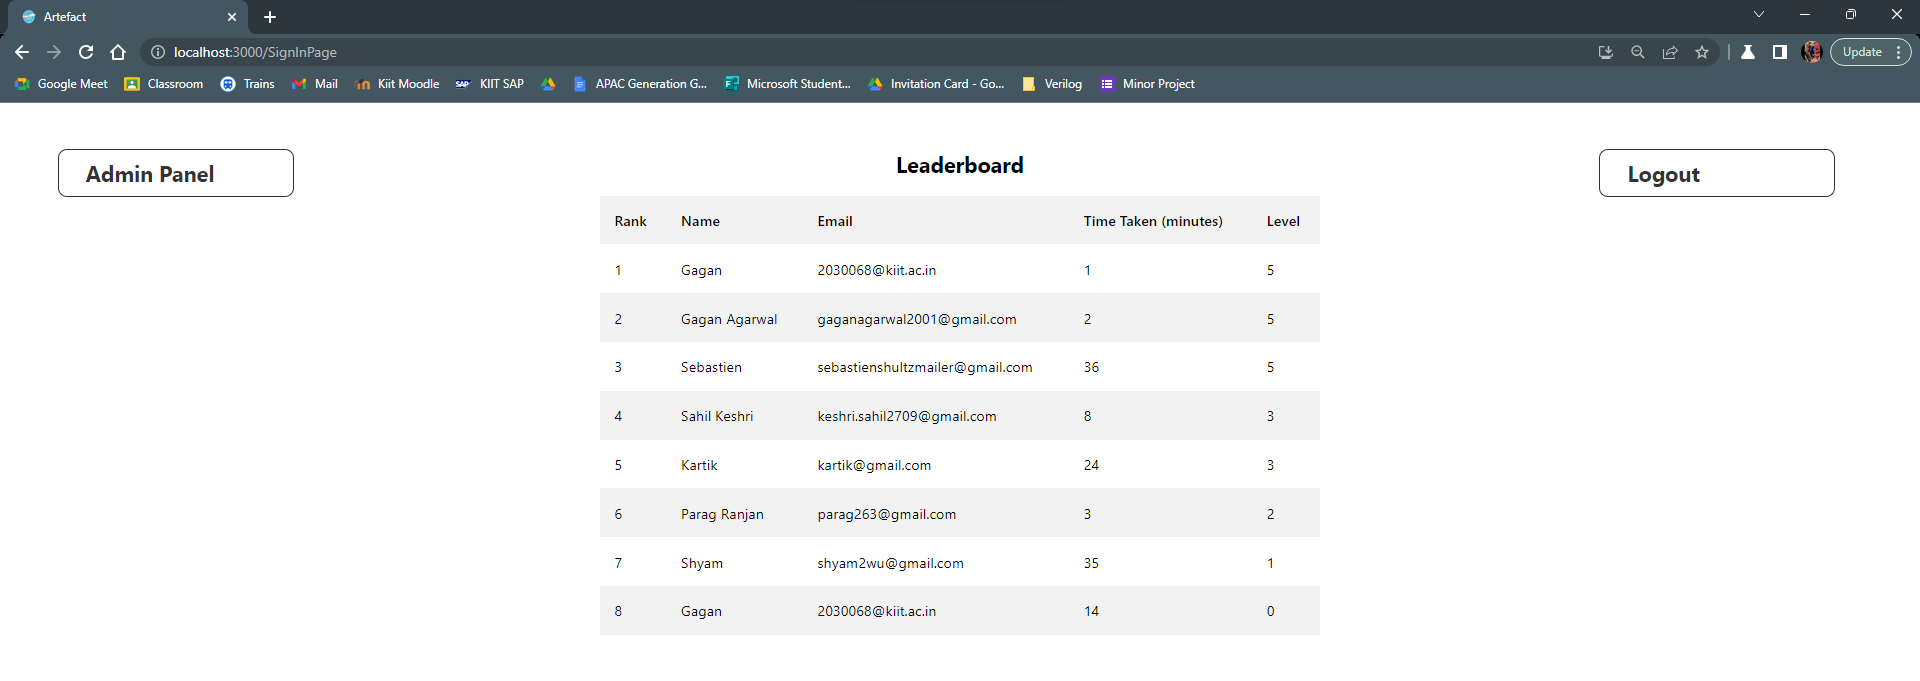
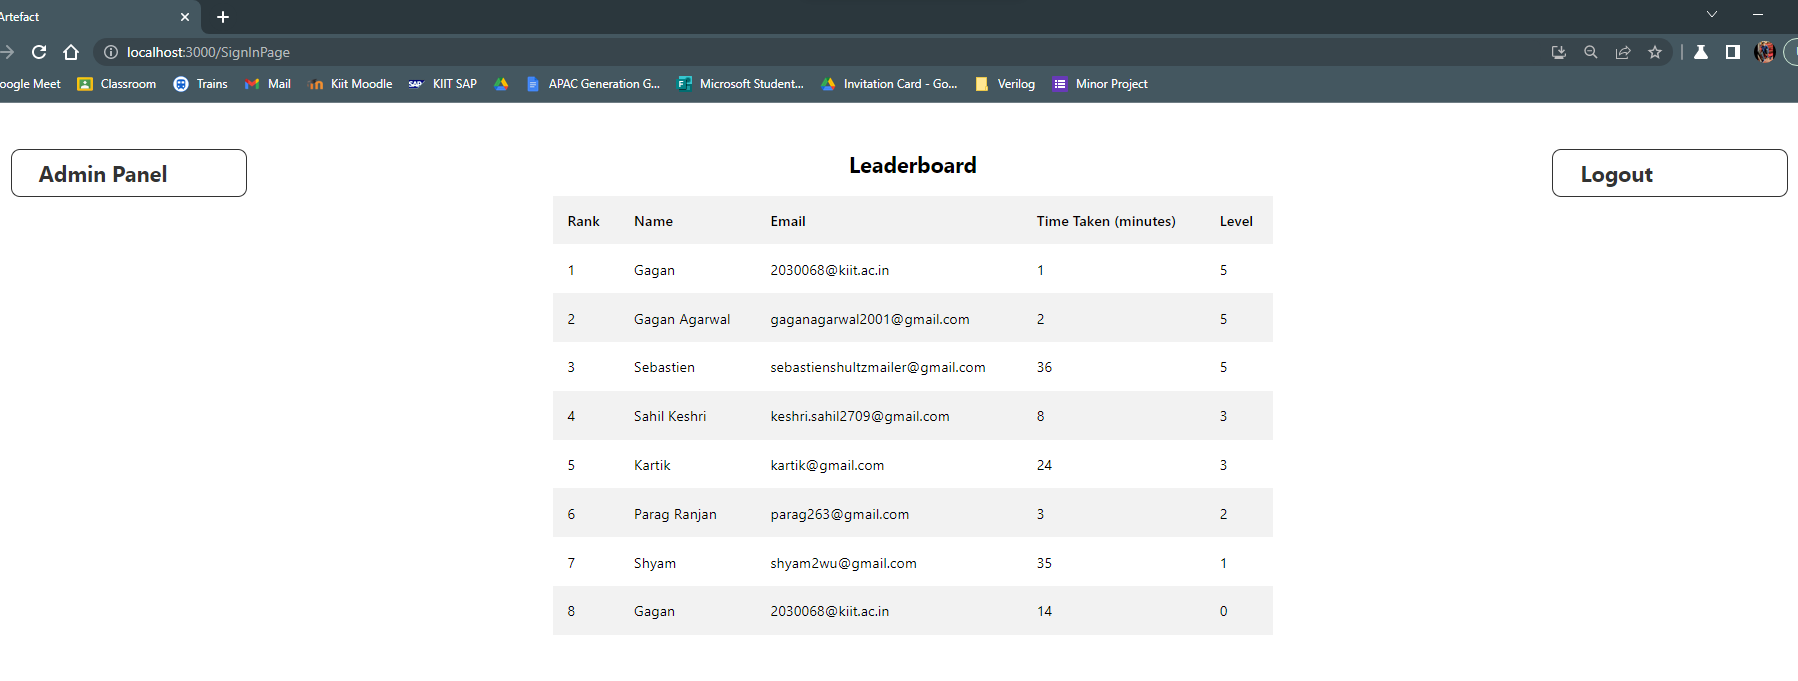
updated admin panel and improved analytics

diff --git a/src/pages/Scoreboard.jsx b/src/pages/Scoreboard.jsx
@@ -2,9 +2,10 @@ import React, { useState, useEffect } from "react";
 import { useFirebase,auth } from "../context/firebase";
 import Chart from 'chart.js/auto';
 import "../styles/Leaderboard.css"
+import "../styles/Scoreboard.css"
 import { signOut } from "firebase/auth";
 
-const Leaderboard = ({ user }) => {
+const ScoreCard = ({ user }) => {
   const [winners, setwinners] = useState([]);
   const firebase = useFirebase();
 
@@ -155,26 +156,23 @@ const Leaderboard = ({ user }) => {
 
   return (
     <div className="leaderboard-container">
-        <div className="admin-text">
-          Admin Panel
-        </div>
       <h2>Leaderboard</h2>
-        <div className="chart-container">
-    <div className="bar-chart-container">
-      <h2 class="chart-title"><u>Score</u></h2>
+      <div className="chart-container-user">
+    <div className="bar-chart-container-user">
+      <h2 class="chart-title">Score</h2>
       <canvas id="leaderboard-chart"></canvas>
     </div>
-    <div className="pie-chart-container">
-      <h2 class="chart-title"><u>No. of Users by thier current Level</u></h2>
-      <canvas id="level-chart"></canvas>
-    </div>
+    <div className="admin-text-user">
+    <div className="admin-links">
+            <a href = "/" >Go Back</a>
+        </div>
+        </div>
   </div>
       <table className="leaderboard-table">
         <thead>
           <tr>
             <th>Rank</th>
             <th>Name</th>
-            <th>Email</th>
             <th>Time Taken (minutes)</th>
             <th>Level</th>
           </tr>
@@ -184,7 +182,6 @@ const Leaderboard = ({ user }) => {
             <tr key={index}>
               <td>{index+1}</td>
               <td>{user.name}</td>
-              <td>{user.email}</td>
               <td>{user.timeTaken}</td>
               <td>{user.level}</td>
             </tr>
@@ -198,4 +195,4 @@ const Leaderboard = ({ user }) => {
   );
 };
 
-export default Leaderboard;
+export default ScoreCard;

diff --git a/src/styles/Leaderboard.css b/src/styles/Leaderboard.css
@@ -37,21 +37,27 @@
     flex-direction: row;
     justify-content: space-between;
     width: 100%;
-    max-width: 1000px;
+    /* max-width: 1000px; */
     margin-top: 2rem;
+    margin-bottom: 50px;
   }
   
   .bar-chart-container{
     display: flex;
     flex-direction: column;
-    width: 60%;
+    /* margin-left: 200px; */
+    width: 70%;
+    align-items: center;
     height: 400px;
   }
   .pie-chart-container {
+    /* margin-right: 200px; */
     display: flex;
     flex-direction: column;
     width: 30%;
     height: 400px;
+    margin-bottom: 40px;
+    padding-right: 200px;
   }
   
   @media only screen and (max-width: 768px) {
@@ -74,7 +80,7 @@
   }
   
   .chart-title {
-    font-size: 1.2rem;
+    font-size: 1.5rem;
     font-weight: 600;
     margin-bottom: 1rem;
   }

diff --git a/src/styles/Scoreboard.css b/src/styles/Scoreboard.css
@@ -1,0 +1,32 @@
+.chart-container-user{
+    display: flex;
+    flex-direction: row;
+    justify-content: center;
+    width: 100%;
+    max-width: 1000px;
+    margin-top: 2rem;
+  }
+  
+  .bar-chart-container-user{
+    display: flex;
+    flex-direction: column;
+    width: 100%;
+    /* height: 400px; */
+  }
+
+  .admin-text-user{
+    position: absolute;
+    top:5%;
+    left:3%;
+    width: 200px;
+    display: inline-block;
+    text-decoration: none;
+    color: #333;
+    font-size: 24px;
+    font-weight: bold;
+    padding: 10px 30px;
+    margin-right: 30px;
+    /* border: 2px solid #333; */
+    border-radius: 10px;
+    transition: background-color 0.3s ease;
+  }

diff --git a/src/pages/Certificate.jsx b/src/pages/Certificate.jsx
@@ -23,6 +23,9 @@ function Certificate({user}) {
             window.location.href = "/";
         }
       };
+      const handleRef = () =>{
+        return(window.location.href = "/ScoreCard");
+      }
       
     useEffect(() => {
     if(user){
@@ -58,6 +61,7 @@ return (
         <div className="certificate-links">
             <a href = "#" onClick={handleLogout}>Logout</a>
             <a href = "#" onClick={handlePlayAgain}>Play Again</a>
+            <a href = "#" onClick={handleRef}>Leaderboard</a>
         </div>
       </div>
     </div>

diff --git a/src/App.js b/src/App.js
@@ -13,6 +13,7 @@ import Level5 from './pages/Level5';
 import Certificate from './pages/Certificate';
 import Deadend from './pages/Deadend';
 import Leaderboard from './pages/Welcome';
+import ScoreCard from './pages/Scoreboard';
 
 
 
@@ -72,6 +73,9 @@ function App() {
     }
     if (user.email === 'admin@admin.com') {
       return <Leaderboard user={user} />
+    }
+    if(window.location.pathname === "/ScoreCard"){
+      return(<ScoreCard user={user}/>)
     }
 
     switch (userLevel) {

diff --git a/src/styles/Deadend.css b/src/styles/Deadend.css
@@ -53,6 +53,7 @@
     font-size: 24px;
     font-weight: bold;
     padding: 10px 30px;
+    margin-right: 40px;
     border: 2px solid #333;
     border-radius: 10px;
     transition: background-color 0.3s ease;
